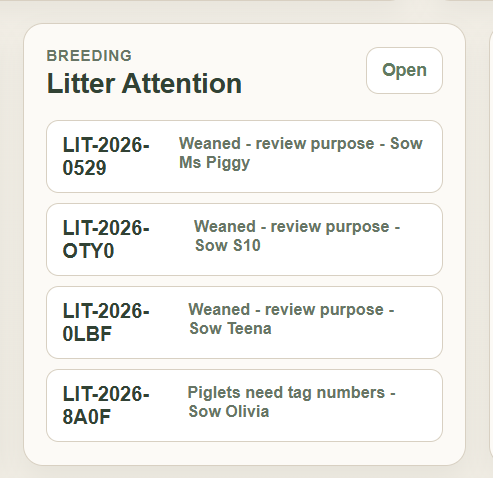
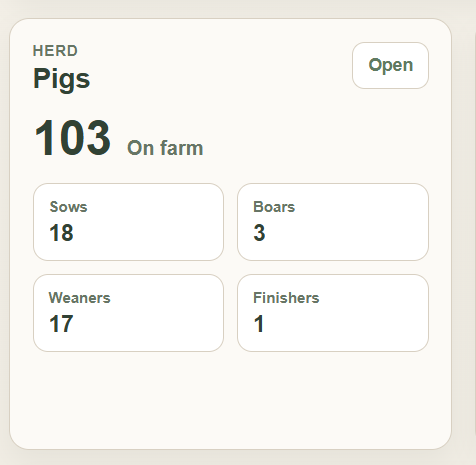
Codex - Dashboard - Herd Count

diff --git a/static/js/dashboard.js b/static/js/dashboard.js
@@ -219,7 +219,10 @@ function renderFarmSummary() {
   setText("herd_total", numberOrDash(summary.on_farm_pigs));
   setText("herd_sows", numberOrDash(summary.sows));
   setText("herd_boars", numberOrDash(summary.boars));
+  setText("herd_gilts", numberOrDash(summary.gilts));
+  setText("herd_piglets", numberOrDash(summary.piglets));
   setText("herd_weaners", numberOrDash(summary.weaners));
+  setText("herd_growers", numberOrDash(summary.growers));
   setText("herd_finishers", numberOrDash(summary.finishers));
   setText("sales_available", numberOrDash(summary.available_for_sale_pigs));
   setText("sales_reserved", numberOrDash(summary.reserved_pigs));

diff --git a/templates/dashboard.html b/templates/dashboard.html
@@ -150,7 +150,10 @@
           <div class="ops-metric-grid ops-metric-grid-compact">
             <div><span>Sows</span><strong id="herd_sows">--</strong></div>
             <div><span>Boars</span><strong id="herd_boars">--</strong></div>
+            <div><span>Gilts</span><strong id="herd_gilts">--</strong></div>
+            <div><span>Piglets</span><strong id="herd_piglets">--</strong></div>
             <div><span>Weaners</span><strong id="herd_weaners">--</strong></div>
+            <div><span>Growers</span><strong id="herd_growers">--</strong></div>
             <div><span>Finishers</span><strong id="herd_finishers">--</strong></div>
           </div>
         </article>

diff --git a/tests/test_frontend_route_contracts.py b/tests/test_frontend_route_contracts.py
@@ -116,6 +116,22 @@ class FrontendRouteContractTests(unittest.TestCase):
         self.assertIn("/api/reports/daily-summary?date=", js)
         self.assertNotIn('method: "POST"', js)
 
+    def test_dashboard_herd_breakdown_includes_all_counted_categories(self):
+        template = Path("templates/dashboard.html").read_text(encoding="utf-8")
+        js = Path("static/js/dashboard.js").read_text(encoding="utf-8")
+
+        for field in [
+            "sows",
+            "boars",
+            "gilts",
+            "piglets",
+            "weaners",
+            "growers",
+            "finishers",
+        ]:
+            self.assertIn(f'id="herd_{field}"', template)
+            self.assertIn(f'summary.{field}', js)
+
     def test_slaughter_sale_form_uses_supabase_sales_transaction_endpoints(self):
         template = Path("templates/slaughter-sale.html").read_text(encoding="utf-8")
         js = Path("static/js/slaughterSale.js").read_text(encoding="utf-8")

diff --git a/docs/00-start-here/NEXT_STEPS.md b/docs/00-start-here/NEXT_STEPS.md
@@ -25,7 +25,7 @@ Orders are the profit section. They must be reliable before the system grows.
 | Phase 6: Web App Order Usability | 6.1 And 6.2 Complete; broader Phase 6 ongoing | Continue only with deliberate small usability slices. |
 | Phase 7: Broader Workflow Improvements | 7.0, 7.1, 7.2 Complete; 7.3C Complete And Live-Verified; 7.3D Complete And Live-Verified | Weather/Solar/Oom Sakkie UX notes captured for later deliberate slices. |
 | Phase 8: Breeding Board Improvements | 8D Live-Verified; 8E/8F Planned | Plan breeding-board sorting before the next breeding analytics work. |
-| Phase 9: Pig, Weight, And Reporting Improvements | 9.1A Live-Verified; 9.1B Browser-Verified; 9.1C Local Implementation Complete; 9.2A/9.2B Owner-Verified; 9.3/9.3B Owner-Verified; 9.4 Current Slice Complete; 9.5 Visible; 9.5B Planned; 9.6A Browser-Verified; Parked For Now | Deploy and live-verify the litter attention action when ready. |
+| Phase 9: Pig, Weight, And Reporting Improvements | 9.1A Live-Verified; 9.1B Browser-Verified; 9.1C Deployed And Browser-Verified; 9.2A/9.2B Owner-Verified; 9.3/9.3B Owner-Verified; 9.4 Current Slice Complete; 9.5 Visible; 9.5B Planned; 9.6A Browser-Verified; Parked For Now | Phase 9 can stay parked unless a deliberate Phase 9 follow-up is selected. |
 | Phase 10: Farm Operating System Integration | 10.1 Complete; 10.2A Verified; 10.2B/C Dry-Run Complete; 10.2D Applied And Verified; 10.2E Complete; 10.2F Deployed And Verified; 10.2G Planned; 10.2H Verified; 10.2I Live-Verified; 10.3J4 Live-Verified; 10.3K Live-Verified; 10.3L4 Live-Verified And Cleaned; 10.3N Live-Verified And Cleaned; 10.3O Planned; 10.3P Deployed And Verified; 10.3Q Live-Verified; 10.3R Deployed And Verified; 10.3S Dry-Run Complete; 10.3T Applied And Verified; 10.3U/V Live-Verified; 10.3W8 Scheduled Run Verified; Farm Home Dashboard Live-Verified | Next: choose the next deliberate slice. |
 | Phase 11: Pork Sales Business Module | Discovery Source Captured | Refine business model doc before implementation planning. |
 
@@ -2020,7 +2020,7 @@ Future direction:
 - Tile link issue fixed: `litterDetail.js` now calls the existing `GET /api/pig-weights/litter/<litter_id>` route instead of the obsolete `/detail` path.
 - Owner confirmed dashboard tile opens the litter detail page after deploy.
 
-9.1C litter attention and weaning workflow - local implementation complete:
+9.1C litter attention and weaning workflow - deployed and browser-verified:
 
 - Source notes moved from `planning/ToDoList.md`.
 - Review how `LITTER_OVERVIEW.Needs_Attention` is calculated and make the reason visible to the user. If a litter tile says it needs attention, the app should explain what action is needed.
@@ -2056,6 +2056,7 @@ Follow-up audit 2026-05-30:
 - Follow-up local fix on 2026-05-30: `Weaned - review purpose` now appears only when an active/on-farm piglet in the litter still has blank or `Unknown` purpose. Older weaned litters whose active piglets already have `Sale`, `Grow_Out`, or `Breeding` should not stay on the dashboard just because the future auto-classification function does not exist yet.
 - Local dashboard API check after the purpose-review fix returned one legitimate litter attention item: `LIT-2026-8A0F` / Sow Olivia / `Piglets need tag numbers`. Owner decision: keep this item visible for now because these piglets only get tags later once they are marked.
 - Future purpose-classification function remains planned: when active weaned piglets still have blank/`Unknown` purpose, the system should eventually suggest or assign purpose from weight/growth/litter rules. For older data where purpose is already set, the workaround is to treat the existing purpose as accepted and not show `review purpose`.
+- Owner deployed and browser-verified this slice on 2026-05-30. Dashboard/litter attention now looks correct: reconciled older litters no longer show purpose-review noise, and `LIT-2026-8A0F` remains visible as the intended tag-number reminder.
 
 Lifecycle automation planning note:
 
@@ -3673,7 +3674,33 @@ Farm home/dashboard idea:
   - Owner desktop browser review 2026-05-26: layout direction accepted and data now loads after replacing stale local server processes on port `5000`.
   - Minor polish note: improve tight metric wrapping where values such as rollup quality `complete` can split across two lines; then do a final desktop/mobile review before deploy.
   - 2026-05-26 polish applied: compact metric cards now auto-fit to avoid cramped four-column tiles in narrow panels, metric values no longer split words mid-word, machine labels such as `not_using_grid`, `google_sheets`, and `complete` display as human-readable text, and the dashboard script has a refreshed cache-buster.
-  - 2026-05-26 live verification passed: owner confirmed the live home page is good after deploy.
+- 2026-05-26 live verification passed: owner confirmed the live home page is good after deploy.
+
+Dashboard and notification follow-up notes moved from `planning/ToDoList.md` on 2026-05-30:
+
+- Herd tile audit: the dashboard `Herd` card currently shows a total head count, but the visible breakdown numbers do not add back up to that total. Next dashboard audit should inspect the backend source fields and either add the missing categories to fill the space or clarify the labels so the total and breakdown reconcile.
+- Farm `Needs Attention` Telegram reminder: send important farm attention items to Telegram so they are visible even when the web app is not opened first. This must avoid spam through digest timing, cooldowns, change detection, or severity grouping. Preferred direction is backend-owned attention summary and n8n as the thin Telegram delivery layer, matching the weather/power alert pattern.
+- Telegram alert message polish: make alert messages easier to scan by adding clear symbols/emoji and consistent formatting by alert type/severity. Keep this as presentation polish only; do not change backend alert rules, cooldowns, or recipient safety while doing it.
+- Dashboard visual cues: add weather and solar/power symbols or small visual states to the home dashboard so weather and energy status are easier to scan. Keep visuals functional, not decorative, and preserve readable text for exact values.
+- Farm task/reminder/project management: future planning item for important dates, reminders, task ownership, projects, and idea logging. This needs a proper model and should not be squeezed into the current attention list as ad hoc notes.
+- Weather station to Windy integration: research whether the local weather station can publish to Windy. Treat as an external integration planning task first; do not change the existing weather ingestion path until the Windy upload method, API requirements, station ID handling, and data ownership are understood.
+
+Supabase RLS hardening verification:
+
+- 2026-05-27 Security Advisor warned about `rls_disabled_in_public`.
+- Migration `supabase/migrations/202605270001_enable_rls_on_public_tables.sql` was prepared to enable RLS on current public tables without adding anon/auth policies.
+- Owner applied the migration and verified Security Advisor on 2026-05-30.
+- Result: `0 errors` and `0 warnings`.
+- Remaining `RLS Enabled No Policy` rows are info-level suggestions and are expected for the current backend-only `DATABASE_URL` access pattern.
+- Do not add broad anon/auth policies unless a future browser/Supabase Auth design is explicitly approved.
+
+Herd tile audit result:
+
+- Local audit on 2026-05-30 confirmed the backend counts already reconcile when all counted categories are visible.
+- Live-style local summary returned `on_farm_pigs = 103`: `18` sows, `3` boars, `0` gilts, `45` piglets, `17` weaners, `19` growers, and `1` finisher.
+- The dashboard mismatch was a display issue: the tile only showed sows, boars, weaners, and finishers, so the visible breakdown summed to `39`.
+- Local fix adds `Gilts`, `Piglets`, and `Growers` to the Herd tile and binds them to the existing backend summary fields.
+- Local verification passed: `node --check static/js/dashboard.js`, focused frontend/dashboard tests passed at 14 tests, and local route smoke confirmed the new Herd IDs render.
 
 Slaughter form refinement notes:
 
@@ -3759,6 +3786,7 @@ Recently completed:
 - Phase 8D follow-up fix — deployed and live-verified 2026-05-20: date parsing now accepts full month names from Google Sheet formulas, for example `9 June 2026` and `10 September 2026`; Baby's new mating `MAT-2026-9EFC4E` now shows expected check `2026-06-09` and expected farrowing `2026-09-10` from the live API.
 - Phase 9.1A new litter defaults — live-verified 2026-05-20: Lolly's `LIT-2026-9E4A` created 11 piglets and Shupe's `LIT-2026-EB92` created 8 piglets; generated rows have `Purpose = Unknown` and `Source = Born_on_Farm`.
 - Phase 9.1B litter attention dashboard — deployed and browser-verified 2026-05-19.
+- Phase 9.1C litter attention action path — deployed and browser-verified 2026-05-30: detail pages show reason-specific action guidance, `Mark as Weaned` only appears for true weaning actions, purpose-review noise is suppressed for older litters whose active piglets already have accepted purpose values, and `LIT-2026-8A0F` remains as the legitimate tag-number reminder.
 - Phase 9.2A pig dropdown usability — deployed and owner-verified 2026-05-20.
 - Phase 9.3 weight form context — deployed and owner-verified 2026-05-20: current-pen helper added beside optional move pen, save payload unchanged, syntax/focused tests and full unittest suite passed.
 - Phase 9.4A/B/C1 weight report — owner-verified 2026-05-20: read-only report endpoint and `/weight-report` page with Today default, active-pig filtering, pen grouping, detail rows, browser print support, duplicate markers, loss flags, improved table spacing, pen-name-only display, and single-day date hiding; focused tests, full local unittest suite, local route/API smoke, deploy, and browser review passed.

diff --git a/docs/00-start-here/HOW_WE_WORK.md b/docs/00-start-here/HOW_WE_WORK.md
@@ -10,11 +10,11 @@ Edit the lines below so every session starts with clarity.
 
 | Field | Value |
 |--------|--------|
-| **Today's focus** | `NEXT_STEPS.md` Section **Phase 9.1C** - Litter attention action path |
-| **Status** | Phase 9.1C local implementation and 2026-05-30 attention-reason hardening complete; owner deployed the first hardening and reconciled two old litter records. Latest local purpose-review fix still needs deploy/browser verification before closing the section. Phase 10.3 weather, power, irrigation, alerts, telemetry rollups, and the wide farm home dashboard are live-verified. |
-| **Current focus** | Litter attention action path: show the correct reason/action for each attention item, and only offer `Mark as Weaned` when it is the right resolution path. |
-| **Current last verified** | **2026-05-30** - focused local litter attention tests passed, `litterDetail.js` syntax passed, local API checks returned expected action types, and local dashboard now returns only `LIT-2026-8A0F` as the legitimate remaining litter attention item; latest deploy/browser verification pending. |
-| **Last verified** | **2026-05-26** - Dashboard sales transaction count/value source live verification passed. |
+| **Today's focus** | `NEXT_STEPS.md` Phase 10 choice point - choose the next deliberate slice |
+| **Status** | Phase 9.1C litter attention action path is deployed and browser-verified. Supabase RLS hardening is applied and Security Advisor now has `0 errors` / `0 warnings`. Herd dashboard count audit is locally fixed and awaiting deploy/browser verification. |
+| **Current focus** | Phase 10 dashboard slice: deploy/browser-check the Herd tile full breakdown, then choose the next deliberate slice, likely farm attention Telegram digest planning. |
+| **Current last verified** | **2026-05-30** - local Herd tile audit fixed the visible breakdown by adding `Gilts`, `Piglets`, and `Growers`; focused tests and local route smoke passed. |
+| **Last verified** | **2026-05-30** - Supabase RLS hardening owner-verified after migration. |
 
 **Rule:** Do **not** start a later phase because it feels urgent, unless **`NEXT_STEPS.md`** is officially updated to reprioritise. Cursor should default to **the next incomplete required outcome** in order.
 

diff --git a/docs/02-backend/SUPABASE_TELEMETRY_PLAN.md b/docs/02-backend/SUPABASE_TELEMETRY_PLAN.md
@@ -3072,3 +3072,12 @@ Next:
 - First live cron run verified on 2026-05-26 through `GET /api/telemetry/rollups/daily?date=2026-05-25`.
 - Verification result: `success = true`, `status = ok`, all three rollups found, power stored/current `288/288`, weather stored/current `287/288`, irrigation stored/current `0/0`.
 - Power kWh/Rand values remain estimated until confirmed Sunsynk energy counters are available.
+
+## Future External Weather Integrations
+
+Owner note captured on 2026-05-30:
+
+- Investigate whether the local weather station can publish to Windy.
+- Treat this as research before implementation.
+- Do not disturb the current weather ingestion, Supabase storage, dashboard, Oom Sakkie weather answers, or weather alert paths until the Windy upload method, station ID/API requirements, retry behavior, and data ownership are understood.
+- If implemented, Windy should be an outbound mirror/integration, not the source of truth for the farm operating system.

diff --git a/docs/02-backend/SUPABASE_FOUNDATION_PLAN.md b/docs/02-backend/SUPABASE_FOUNDATION_PLAN.md
@@ -377,6 +377,13 @@ Because the owner has not used Supabase before, these defaults should be used un
 - Do not add broad `anon` or `authenticated` policies unless a future frontend/Supabase Auth design is explicitly approved.
 - Keep Google Sheets visible as read-only or synced operator views until the database-backed screens are proven.
 
[phone redacted] verification:
+
+- Owner applied the RLS hardening migration.
+- Supabase Security Advisor shows `0 errors` and `0 warnings`.
+- Remaining `RLS Enabled No Policy` rows are informational suggestions and are expected for the current backend-only access model.
+- Continue to avoid anon/auth policies until browser/Supabase Auth access is deliberately designed.
+
 ## `/health/database` Smoke Endpoint
 
 Recommendation: add this during foundation setup.

diff --git a/docs/00-start-here/CURRENT_STATE.md b/docs/00-start-here/CURRENT_STATE.md
@@ -175,7 +175,7 @@ Current position:
 - Phase 8D follow-up is deployed and live-verified: Baby's new mating `MAT-2026-9EFC4E` now shows formula-derived expected dates correctly in the live API.
 - Phase 9.1A is live-verified: real litters `LIT-2026-9E4A` and `LIT-2026-EB92` generated the expected piglet rows with `Purpose = Unknown`.
 - Phase 9.1B is deployed and browser-verified: dashboard litter attention reads `LITTER_OVERVIEW`, and litter tiles open the litter detail page.
-- Phase 9.1C is implemented locally: litter detail now shows attention metadata and provides a backend-owned `Mark as Weaned` action that updates `LITTERS` and linked active/on-farm `PIG_MASTER` piglets with the chosen wean date/count. Purpose/classification review remains a later slice. A 2026-05-30 audit confirmed `LIT-2026-OTY0` and `LIT-2026-0LBF` were record-reconciliation attention items and `LIT-2026-8A0F` needs piglet tag numbers. Owner reconciled `LIT-2026-OTY0` and `LIT-2026-0LBF`; local dashboard logic now only keeps `Weaned - review purpose` when active/on-farm piglets still have blank or `Unknown` purpose, so older litters with accepted `Sale` / `Grow_Out` / `Breeding` purposes no longer wait on the future auto-classification function. `LIT-2026-8A0F` remains the legitimate visible attention item until its piglets are tagged.
+- Phase 9.1C is deployed and browser-verified: litter detail now shows attention metadata and provides a backend-owned `Mark as Weaned` action that updates `LITTERS` and linked active/on-farm `PIG_MASTER` piglets with the chosen wean date/count. Purpose/classification review remains a later slice. A 2026-05-30 audit confirmed `LIT-2026-OTY0` and `LIT-2026-0LBF` were record-reconciliation attention items and `LIT-2026-8A0F` needs piglet tag numbers. Owner reconciled `LIT-2026-OTY0` and `LIT-2026-0LBF`; dashboard logic now only keeps `Weaned - review purpose` when active/on-farm piglets still have blank or `Unknown` purpose, so older litters with accepted `Sale` / `Grow_Out` / `Breeding` purposes no longer wait on the future auto-classification function. `LIT-2026-8A0F` remains the legitimate visible attention item until its piglets are tagged.
 - Lifecycle automation direction is captured in `NEXT_STEPS.md`: future piglet death, post-weaning death, weaning, sales, slaughter, and meat-stream actions should update the correct source records/logs and feed sow/boar/litter/bloodline outcome reporting. Pre-weaning deaths must keep the pig row because they are part of born-alive survival history.
 - Phase 9.2A is deployed and owner-verified: pig dropdown APIs and labels now include current pen context and three-slot numeric tag display.
 - Phase 9.2B is deployed and owner-verified: `/pigs` now displays numeric-only tags as three digits, sorts the list with numeric-aware tag order, and keeps profile links on unchanged `pig_id` values.
@@ -475,4 +475,6 @@ Current position:
 - Phase 10 farm home/dashboard live verification passed on 2026-05-26. Owner confirmed the live home page is good after deploy.
 - Dashboard slaughter sale count/value source is live-verified on 2026-05-26. The dashboard summary now reads monthly non-cancelled Supabase `sales_transactions` and exposes count plus net Rand value by stream; the home dashboard displays Livestock, Slaughter, and Meat as `count / value`. Old pig-exit monthly counts remain available as separate audit fields. Owner confirmed the live dashboard now displays the slaughter sale value.
 - Sales summary screen idea is captured in `NEXT_STEPS.md` Phase 9.5B as a future dashboard/reporting slice: one full overview for all sales streams with date/month/year filters, totals, Rand values, and drill-in paths.
-- Supabase Security Advisor warning received on 2026-05-27 for `rls_disabled_in_public`. RLS hardening migration `supabase/migrations/202605270001_enable_rls_on_public_tables.sql` is prepared to enable RLS on all current public tables with no anon/auth policies. Backend-owned `DATABASE_URL` access remains the intended path; browser/Data API access should stay closed by default.
+- Supabase Security Advisor warning received on 2026-05-27 for `rls_disabled_in_public`. RLS hardening migration `supabase/migrations/202605270001_enable_rls_on_public_tables.sql` was applied by owner and verified on 2026-05-30. Security Advisor now shows `0 errors` and `0 warnings`; remaining `RLS Enabled No Policy` rows are informational and expected because backend-owned `DATABASE_URL` access remains the intended path and browser/Data API access should stay closed by default.
+- New Phase 10 follow-up notes are captured in `NEXT_STEPS.md`: herd tile total/breakdown audit, Telegram digest/reminders for farm attention, alert message formatting polish, weather/solar dashboard symbols, future task/reminder/project management, and possible Windy weather-station integration research.
+- Herd dashboard count audit is locally fixed: backend herd counts reconciled to `103` on-farm pigs once `Gilts`, `Piglets`, and `Growers` were included in the visible tile. Dashboard now displays the full counted breakdown locally; deploy/browser verification remains pending.

diff --git a/planning/ToDoList.md b/planning/ToDoList.md
@@ -38,5 +38,11 @@ Keep this list empty, or nearly empty, so nothing drifts out of **`NEXT_STEPS.md
 - Full sales summary screen note moved to `NEXT_STEPS.md` Phase 9.5B.
 - Mating attention group/reason note moved to `NEXT_STEPS.md` Phase 8F.
 - Bulk weight-entry from printable capture sheet note moved to `NEXT_STEPS.md` Phase 9.6C.
+- Herd dashboard total/breakdown audit note moved to `NEXT_STEPS.md` Phase 10 farm home/dashboard follow-ups.
+- Farm attention Telegram reminder note moved to `NEXT_STEPS.md` Phase 10 farm home/dashboard follow-ups.
+- Farm task/reminder/project management note moved to `NEXT_STEPS.md` Phase 10 farm home/dashboard follow-ups.
+- Telegram alert emoji/formatting note moved to `NEXT_STEPS.md` Phase 10 farm home/dashboard follow-ups.
+- Weather/solar dashboard symbol note moved to `NEXT_STEPS.md` Phase 10 farm home/dashboard follow-ups.
+- Windy weather-station integration research note moved to `NEXT_STEPS.md` Phase 10 farm home/dashboard follow-ups.
 
 Add new scratch bullets below, then move them into the correct canonical file.